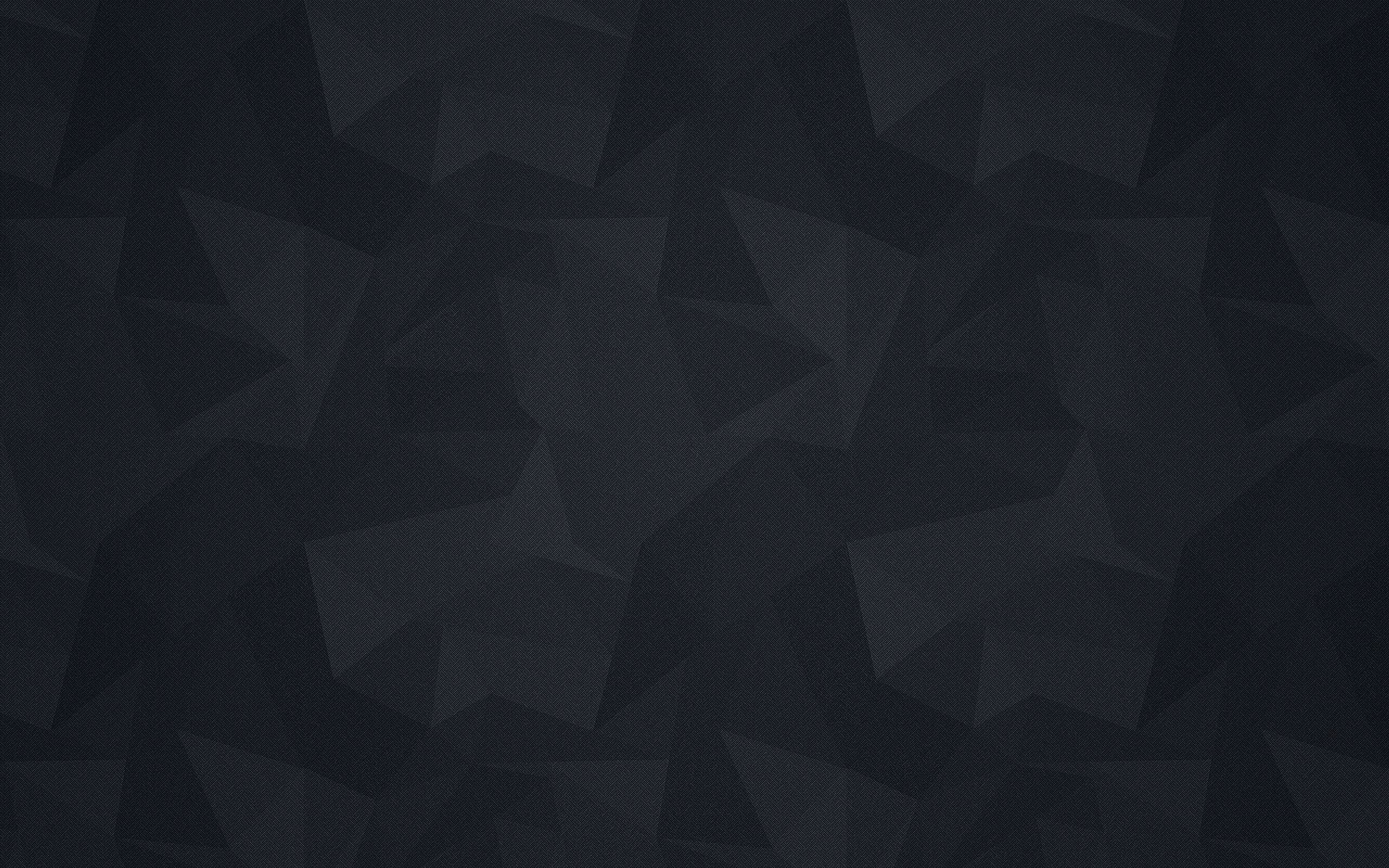
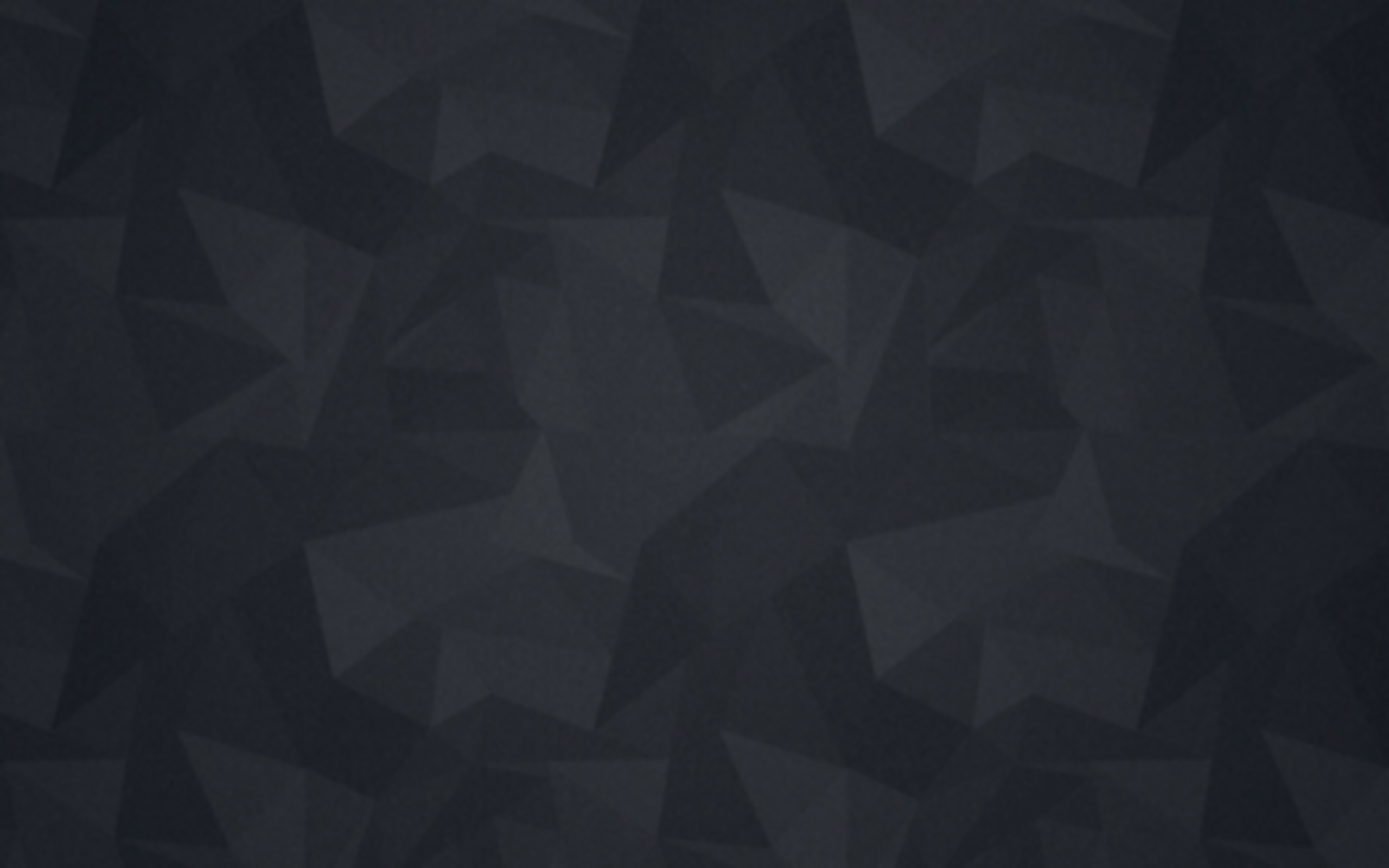
load background after page

diff --git a/assets/js/size-fix.js b/assets/js/size-fix.js
@@ -5,3 +5,11 @@ $( document ).ready(function() {
 $(window).resize(function (e){
 	$('#wrap').css('padding-top', ($('.navbar').height() - 40) + "px")
 });
+
+/* =========================== *\
+|  Nothing to do with size fix  |
+|  loads background after page  |
+\* =========================== */ 
+$(function () {
+	$('body').css('background', 'url(assets/img/wallpaper2.jpg)');
+});

diff --git a/assets/css/theme.css b/assets/css/theme.css
@@ -1,6 +1,6 @@
 body {
 	padding-top: 50px;
-	background: url(../img/wallpaper2.jpg);
+	background: #24282E;
 	background-position: center;
 	background-size: contain;
 }
